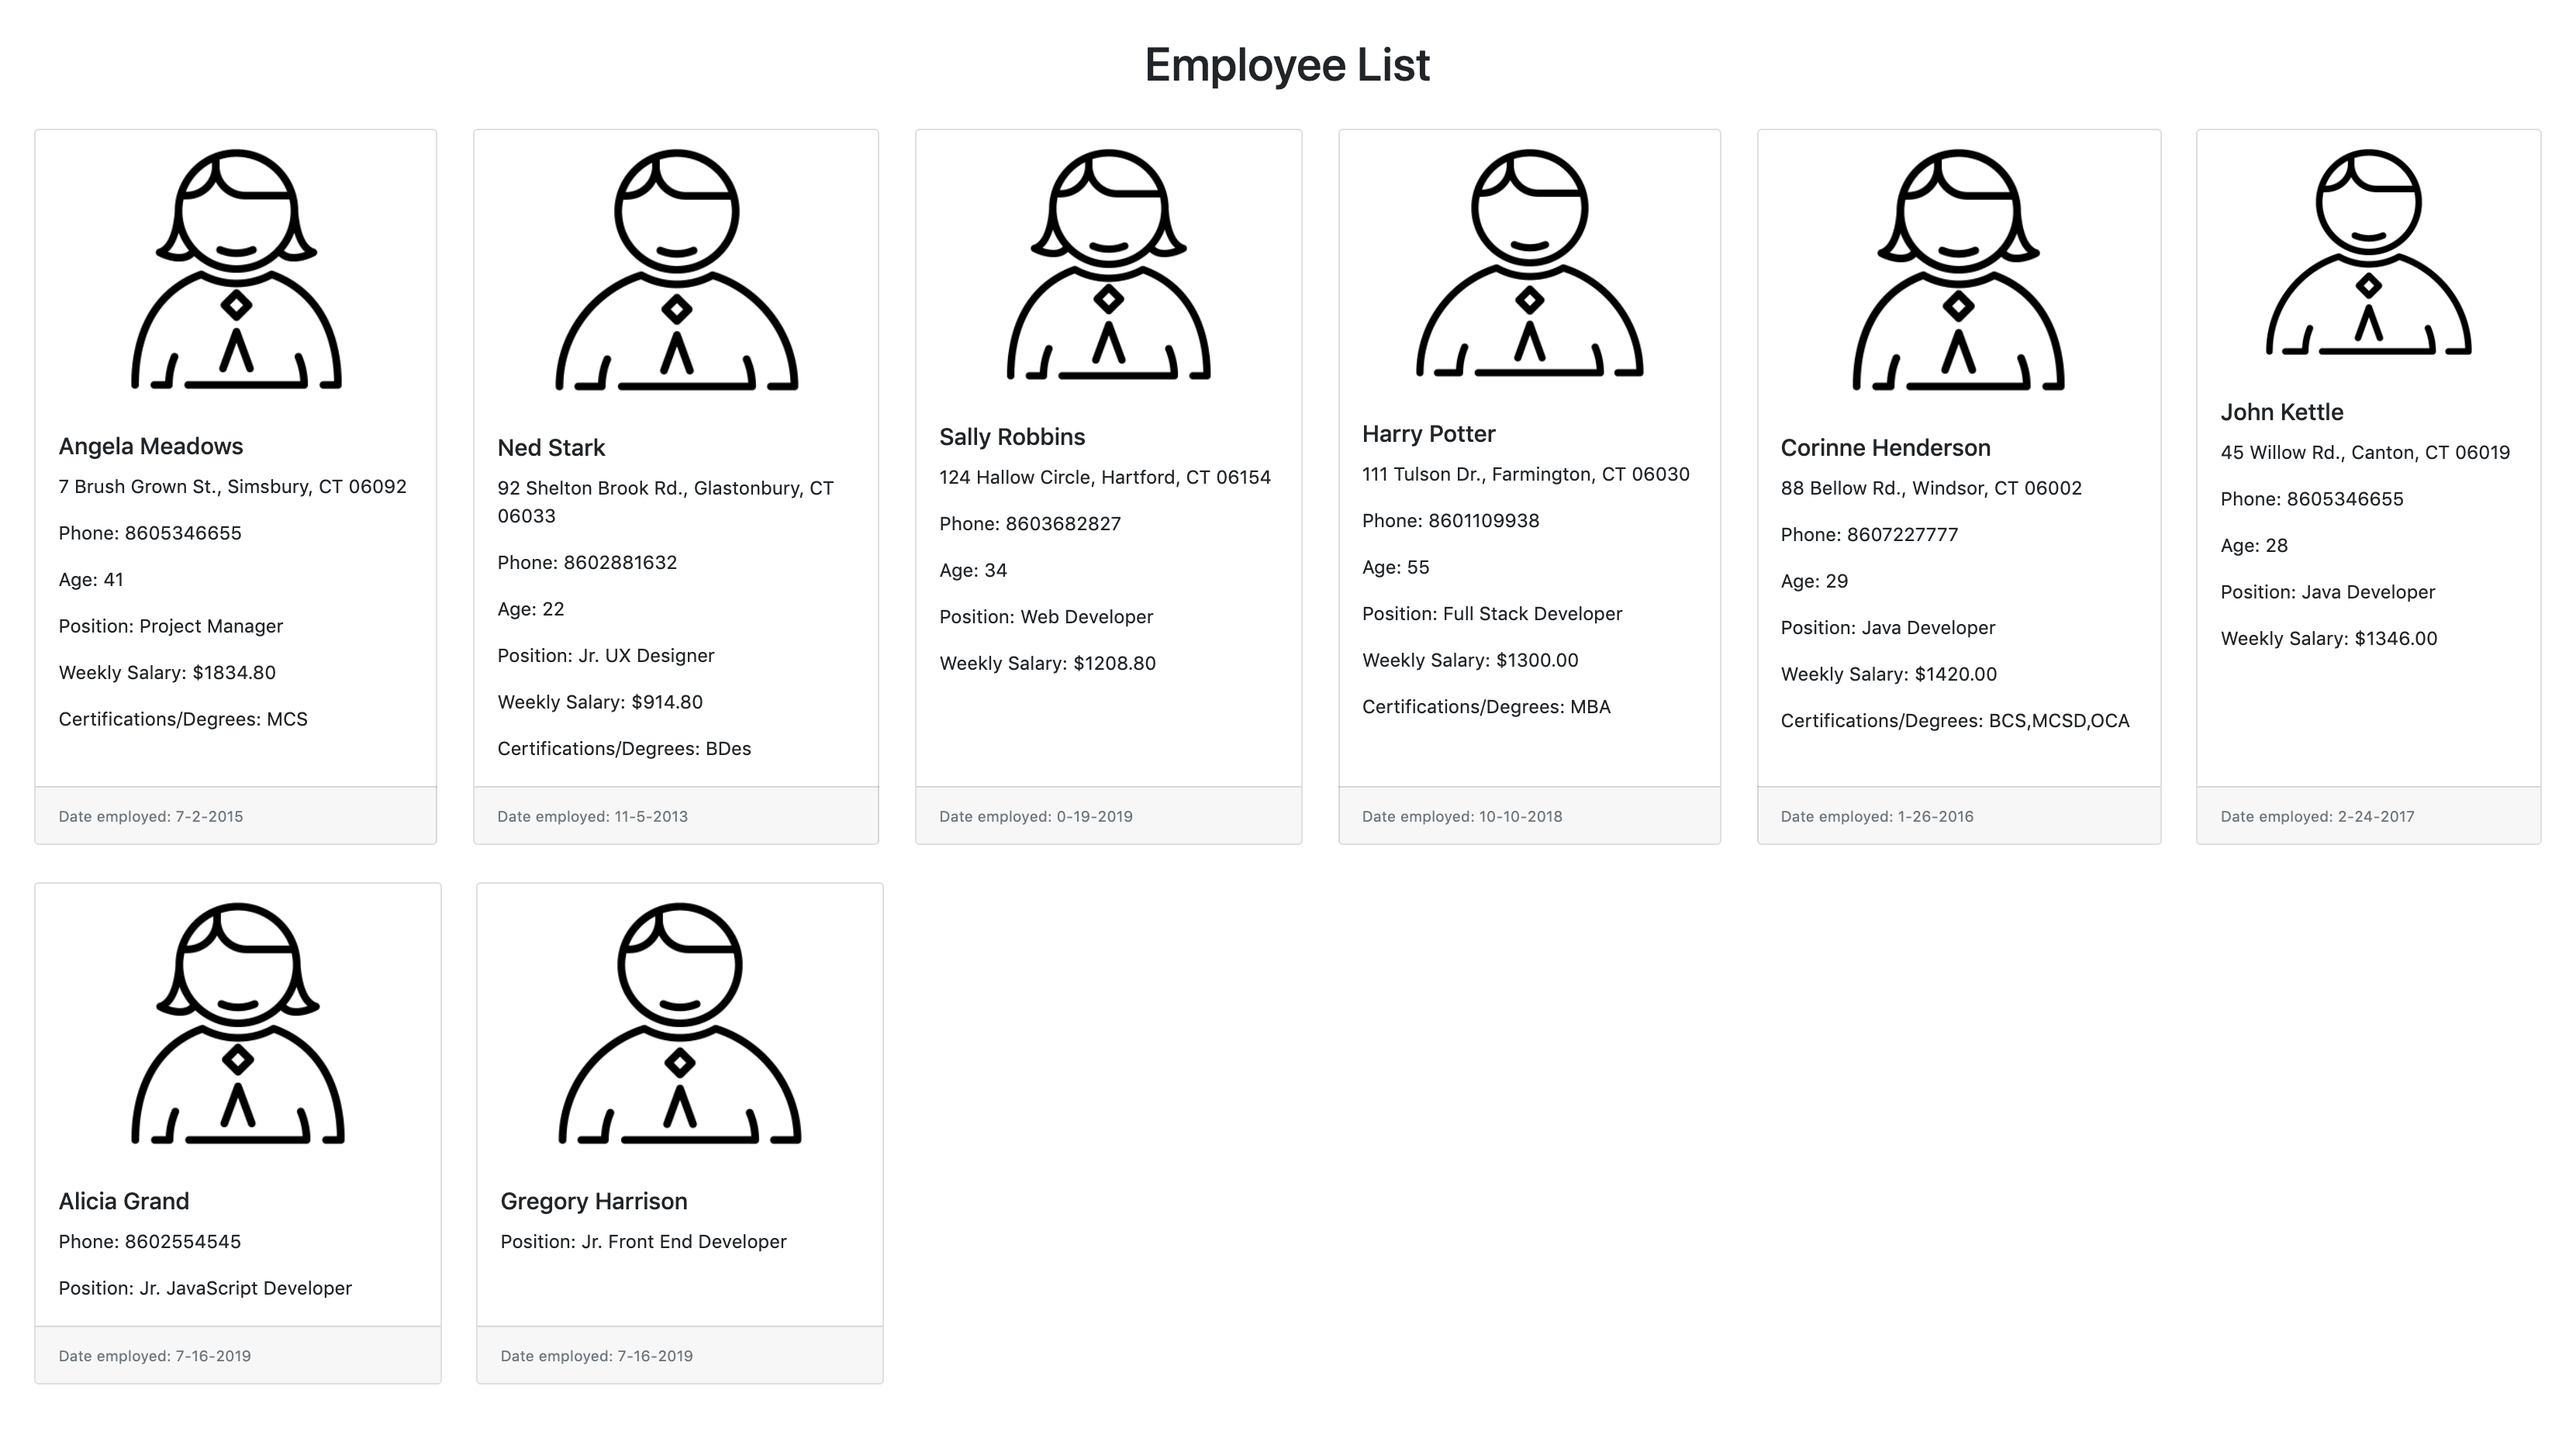
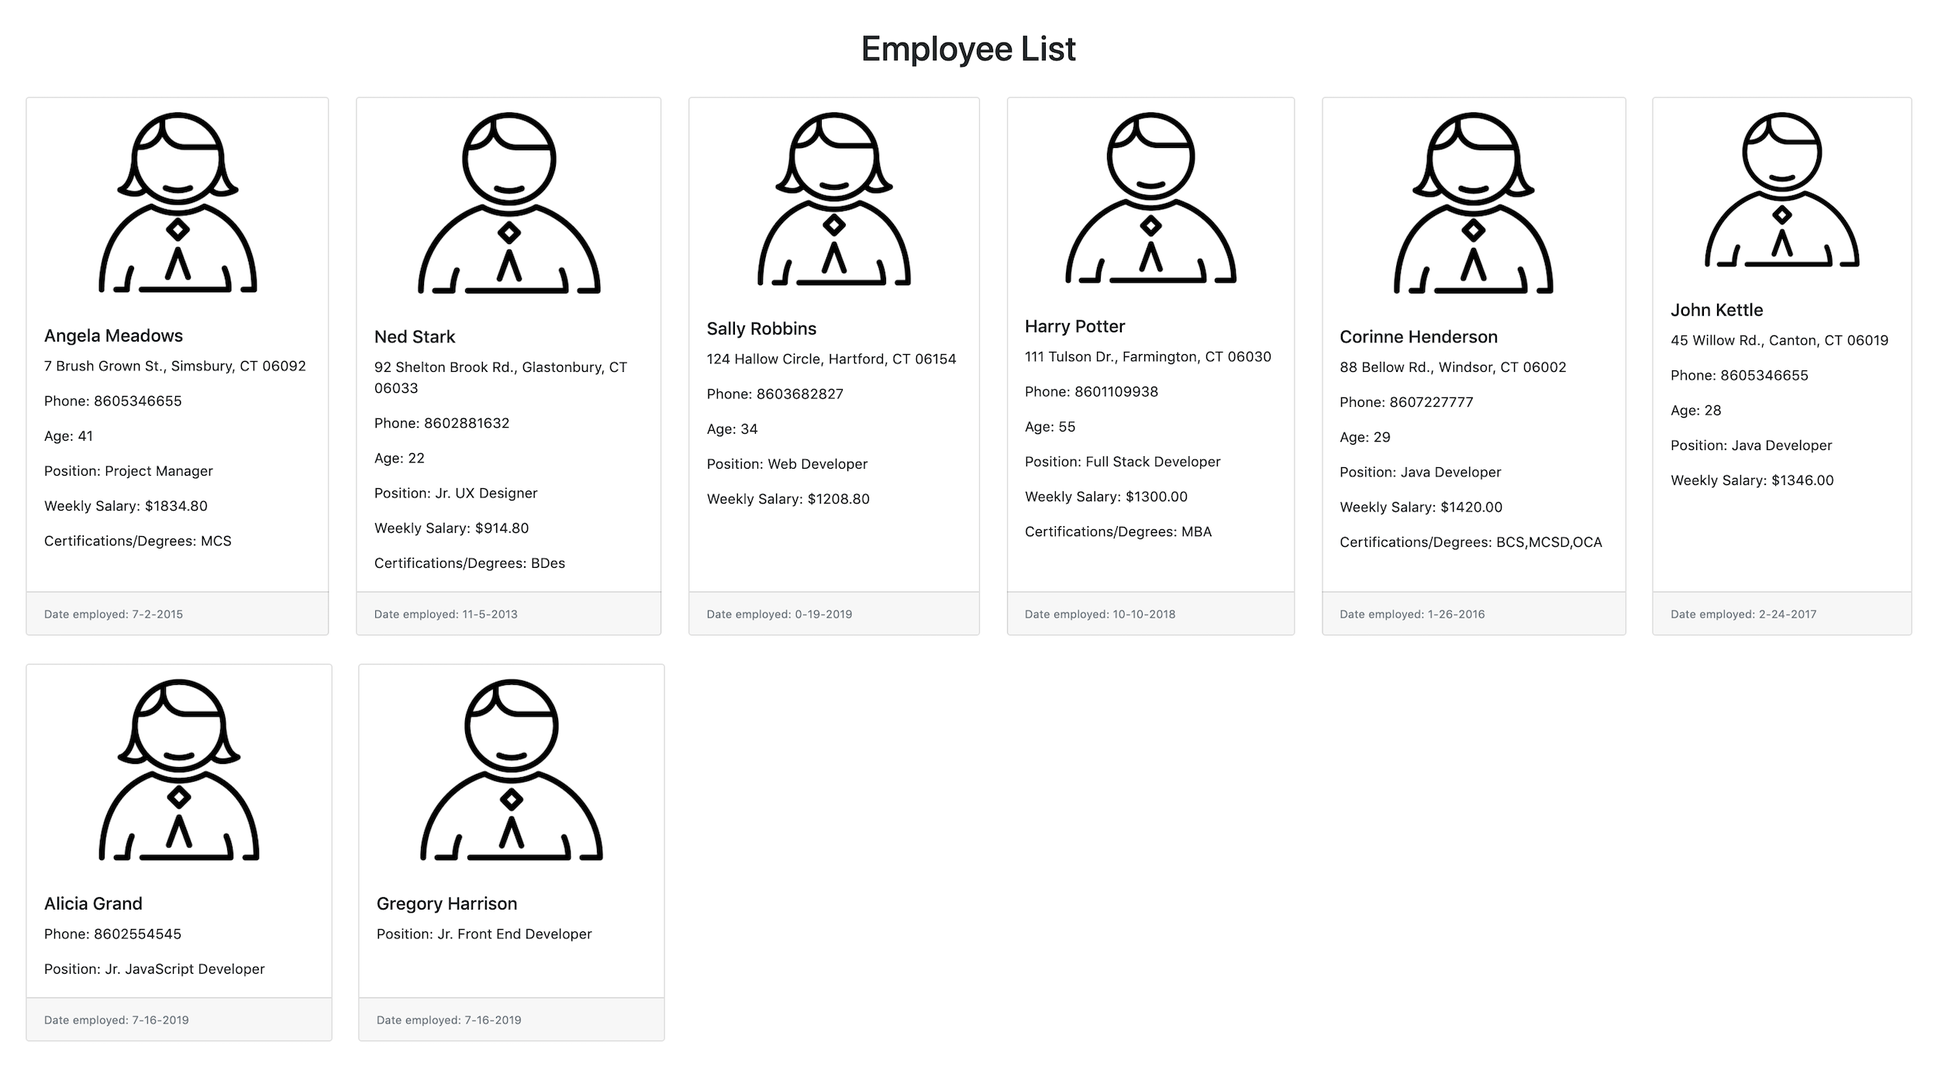
Resize image and change link to image on README.md

diff --git a/README.md b/README.md
@@ -14,7 +14,7 @@
 **Submitted folder**  
 `typescript` 
 
-<img src="/images/typescript-screenshot.png" width="800">
+![TypeScript Assignment Screen Shot](/images/typescript-screenshot.png)
 
 # Tech Talent South
 
